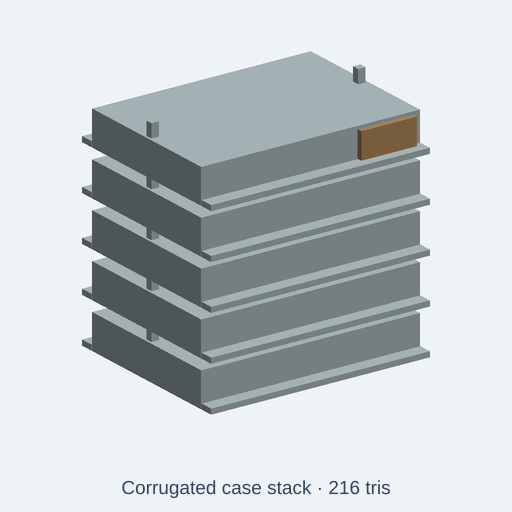
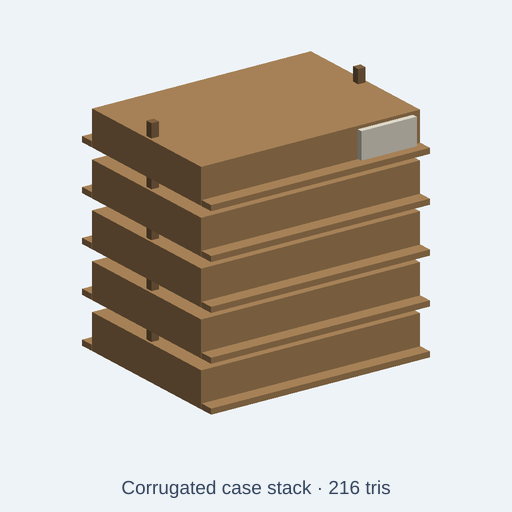
fix(catalog): render the corrugated case stack as board, not stainless
The bottling-line corrugated-case-stack sent every case body, flap and
corner protector through the stainlessSteel fallback, so the whole stack
rendered metal grey. Only the paper label matched the board rule.

Replace stainlessSteel with edgeBoard (paperboard corner protectors) and
labelPaper (shipping label); cases and flaps use corrugatedBoard. Presets
cover all three. Geometry and triangle count (216) are unchanged.

Compatibility: a saved stainlessSteel override no longer applies.

Regression: corrugatedCaseStackMaterial.test.ts reads GLB colours; it
fails on the old source and passes now. Preview and index regenerated.

diff --git a/tests/integration/catalog/corrugatedCaseStackMaterial.test.ts b/tests/integration/catalog/corrugatedCaseStackMaterial.test.ts
@@ -1,0 +1,69 @@
+// SPDX-License-Identifier: MIT
+// Copyright (c) 2026 Andrii Shylenko and kernelCAD contributors
+
+import { resolve } from 'node:path';
+import { NodeIO } from '@gltf-transform/core';
+import { beforeAll, describe, expect, it } from 'vitest';
+import { buildCatalogAssetWithGlb } from '../../../src/agent/catalog/buildCatalog';
+import { initOcct } from '../../../src/kernel/backends/occt/occtBackend';
+
+const repoRoot = resolve(import.meta.dirname, '../../..');
+const source = 'catalog/kits/beverage-bottling-line/corrugated-case-stack.kcad.ts';
+
+beforeAll(async () => {
+  await initOcct();
+}, 120_000);
+
+describe('beverage-bottling-line/corrugated-case-stack materials', () => {
+  it('renders the corrugated cases as board, not stainless steel', async () => {
+    const { asset, glb } = await buildCatalogAssetWithGlb(repoRoot, source);
+
+    expect(asset.stats.triangles).toBeLessThanOrEqual(asset.triangleBudget);
+    expect(asset.params.filter((param) => param.type === 'color').map((param) => param.name)).toEqual([
+      'corrugatedBoard', 'edgeBoard', 'labelPaper',
+    ]);
+    expect(Object.keys(asset.presets)).toEqual(['sanitaryLine', 'legacyPlant']);
+
+    const document = await new NodeIO().readBinary(glb);
+    const nodes = document.getRoot().listNodes();
+    const colorsFor = (name: string) => {
+      const node = nodes.find((candidate) => candidate.getName() === name);
+      return node?.getMesh()?.listPrimitives().flatMap((primitive) => {
+        const vertexColors = primitive.getAttribute('COLOR_0');
+        if (vertexColors !== null) {
+          return Array.from({ length: vertexColors.getCount() }, (_, index) => {
+            const color = vertexColors.getElement(index, []);
+            return color.slice(0, 3).map((channel) =>
+              channel <= 0.0031308 ? 12.92 * channel : 1.055 * channel ** (1 / 2.4) - 0.055,
+            );
+          });
+        }
+        const material = primitive.getMaterial();
+        return material === null ? [] : [material.getBaseColorFactor().slice(0, 3)];
+      }) ?? [];
+    };
+    const matches = (hex: string) => {
+      const expected = [1, 3, 5].map((shift) => parseInt(hex.slice(shift, shift + 2), 16) / 255);
+      return (color: number[]) => expected.every((channel, index) =>
+        Math.abs(channel - color[index]!) < 0.015,
+      );
+    };
+
+    const cases = [0, 1, 2, 3, 4].flatMap((index) => [
+      `case-${index}-body`, `case-${index}-flap-front`, `case-${index}-flap-back`,
+    ]);
+    for (const name of cases) {
+      const part = colorsFor(name);
+      expect(part.length).toBeGreaterThan(0);
+      expect(part.every(matches('#b18a5d')), `${name} should be corrugated board`).toBe(true);
+    }
+    for (const name of ['corner-protector-left', 'corner-protector-right']) {
+      const part = colorsFor(name);
+      expect(part.length).toBeGreaterThan(0);
+      expect(part.every(matches('#8a6a48')), `${name} should be paperboard`).toBe(true);
+    }
+    const label = colorsFor('stack-label');
+    expect(label.length).toBeGreaterThan(0);
+    expect(label.every(matches('#ece6d6')), 'stack-label should be paper').toBe(true);
+  }, 120_000);
+});

diff --git a/catalog/kits/beverage-bottling-line/corrugated-case-stack.kcad.ts b/catalog/kits/beverage-bottling-line/corrugated-case-stack.kcad.ts
@@ -5,7 +5,7 @@ meta({
   name: "corrugated-case-stack",
   license: 'CC0-1.0',
   title: "Corrugated case stack",
-  description: "Neat stack of knocked-down corrugated cases staged beside a case erector. Knobs: overall scale and color controls for stainless steel and corrugated board.",
+  description: "Neat stack of knocked-down corrugated cases staged beside a case erector. Knobs: overall scale and color controls for corrugated board, paperboard edge protectors and the paper label.",
   tags: ['beverage bottling', 'packaging line', 'food manufacturing', 'low poly', 'CC0'],
   kit: 'beverage-bottling-line',
   category: 'item',
@@ -15,17 +15,20 @@ meta({
 });
 
 const scale = param('scale', 1, { label: 'Overall scale', min: 0.65, max: 1.3, step: 0.05 });
-const stainlessSteel = param('stainlessSteel', '#aebdc1', { label: 'Stainless steel' });
 const corrugatedBoard = param('corrugatedBoard', '#b18a5d', { label: 'Corrugated board' });
+const edgeBoard = param('edgeBoard', '#8a6a48', { label: 'Paperboard edge protectors' });
+const labelPaper = param('labelPaper', '#ece6d6', { label: 'Paper shipping label' });
 
 presets({
   sanitaryLine: {
-    stainlessSteel: '#d2dfe1',
     corrugatedBoard: '#c49b6b',
+    edgeBoard: '#9a7a55',
+    labelPaper: '#f6f3ea',
   },
   legacyPlant: {
-    stainlessSteel: '#858f91',
     corrugatedBoard: '#886342',
+    edgeBoard: '#6b513a',
+    labelPaper: '#d8cfb8',
   },
 });
 const boxPart = (x:number,y:number,z:number,w:number,d:number,h:number) => box(w,d,h,true).translate(x,y,z+h/2).scale(scale);
@@ -33,8 +36,12 @@ const boxPart = (x:number,y:number,z:number,w:number,d:number,h:number) => box(w
 const p = assembly("corrugated-case-stack");
 const finishPart = (name: string, shape: ReturnType<typeof boxPart>) => {
   const component = name.toLowerCase();
-  if (/carton|paper|sheet|stack|pallet|cardboard|corrugated|case[-_ ]?(?:blank|wall|stack|pack|lift)/i.test(component)) return shape.color(corrugatedBoard);
-  return shape.color(stainlessSteel);
+  // Every part is paper-based: the case bodies and flaps are corrugated board, the
+  // corner protectors are wound paperboard edge boards and the label is paper.
+  // The stack previously fell through to stainless steel, so it rendered as metal.
+  if (/label/i.test(component)) return shape.color(labelPaper);
+  if (/corner-protector/i.test(component)) return shape.color(edgeBoard);
+  return shape.color(corrugatedBoard);
 };
 p.part("case-0-body", finishPart("case-0-body", boxPart(0, 0, 0, 730, 520, 115)));
 p.part("case-1-body", finishPart("case-1-body", boxPart(0, 0, 150, 730, 520, 115)));
